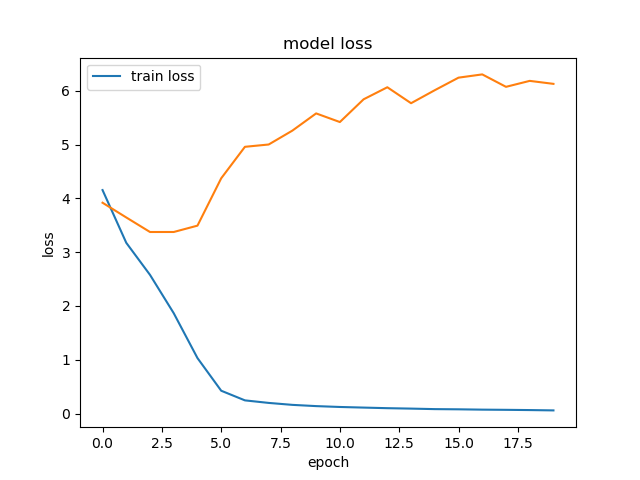
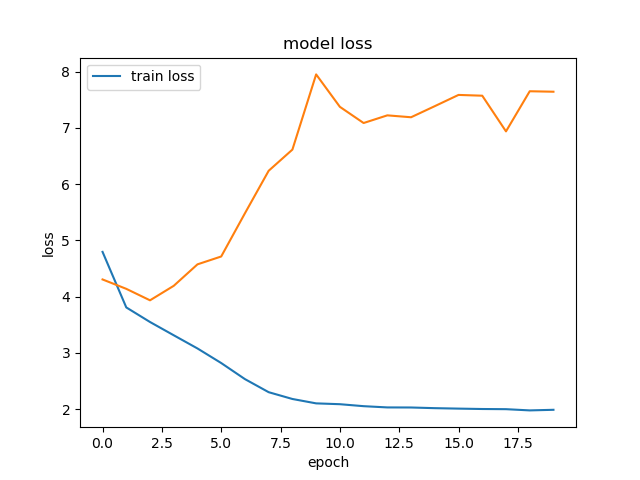
Run 20 epochs all models w. regularization

diff --git a/src/models.py b/src/models.py
@@ -4,7 +4,7 @@ from keras.preprocessing import image as image_utils
 from keras.optimizers import Adam, SGD
 from keras import metrics, regularizers
 
-l2_rate = 0.001
+l2_rate = 0.0001
 
 def getModel(modelString, dim, opt = "adam", BN = False, dropout = 0, initializer = 'random_uniform'):
     allModels = ['vgg_z']
@@ -29,16 +29,13 @@ def vgg_z(dim, opt, BN, dropout, initializer):
         do_BN = lambda : None
 
     #Conv layers, round 1
-    model.add(Conv2D(32, (2,2), padding="same", input_shape=dim,
-        kernel_initializer = initializer))
+    model.add(Conv2D(32, (2,2), padding="same", input_shape=dim))
     do_BN()
     model.add(Activation('relu'))
-    model.add(Conv2D(32, (2,1), padding="same",
-        kernel_initializer = initializer))
+    model.add(Conv2D(32, (2,1), padding="same"))
     do_BN()
     model.add(Activation('relu'))
-    model.add(Conv2D(32, (1,2), padding="same",
-        kernel_initializer = initializer))
+    model.add(Conv2D(32, (1,2), padding="same"))
     do_BN()
     model.add(Activation('relu'))
 
